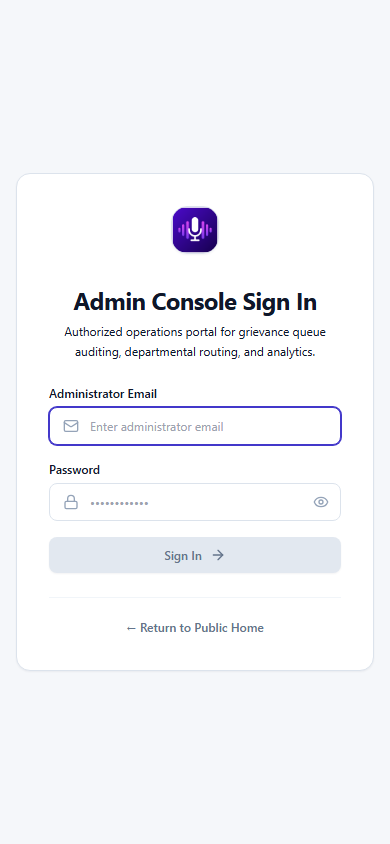
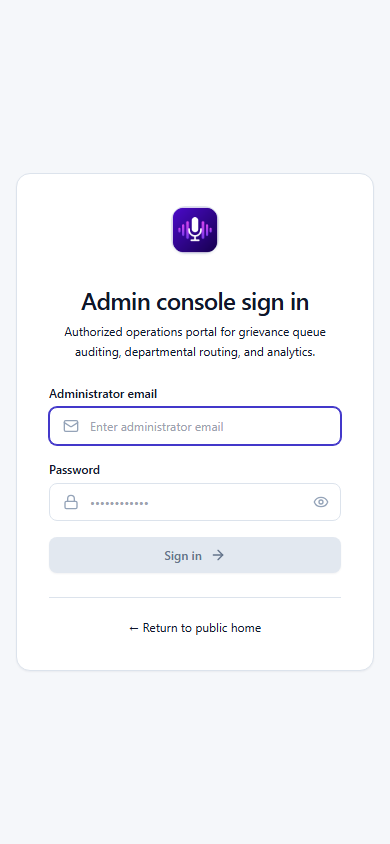
feat(unslop): refine admin portal sign-in card and complete full-suite audit

diff --git a/frontend/src/pages/AdminDashboard.jsx b/frontend/src/pages/AdminDashboard.jsx
@@ -149,9 +149,9 @@ export default function AdminDashboard() {
   // Loading state while verifying token
   if (isCheckingAuth) {
     return (
-      <div className="min-h-screen bg-slate-50 flex flex-col items-center justify-center p-4">
-        <Loader2 className="w-8 h-8 animate-spin text-primary-600 mb-3" />
-        <p className="text-xs font-semibold text-slate-500">Checking administrator authorization...</p>
+      <div className="min-h-screen bg-app flex flex-col items-center justify-center p-4">
+        <Loader2 className="w-8 h-8 animate-spin text-brand mb-3" />
+        <p className="text-xs text-secondary-text">Checking administrator authorization...</p>
       </div>
     );
   }
@@ -167,13 +167,13 @@ export default function AdminDashboard() {
             <img
               src="/voxdesk-app-icon-512.png"
               alt="VoxDesk AI Icon"
-              className="w-12 h-12 rounded-2xl mx-auto shadow-xs border border-border"
+              className="w-12 h-12 rounded-card mx-auto shadow-xs border border-border"
             />
           </Link>
 
           <div className="space-y-1.5">
-            <h1 className="text-2xl font-bold text-primary-text tracking-tight">
-              Admin Console Sign In
+            <h1 className="text-2xl font-medium text-primary-text tracking-tight">
+              Admin console sign in
             </h1>
             <p className="text-xs text-secondary-text leading-relaxed">
               Authorized operations portal for grievance queue auditing, departmental routing, and analytics.
@@ -185,9 +185,9 @@ export default function AdminDashboard() {
             <div>
               <label
                 htmlFor="admin-email"
-                className="block text-xs font-semibold text-secondary-text mb-1.5"
+                className="block text-xs font-medium text-secondary-text mb-1.5"
               >
-                Administrator Email
+                Administrator email
               </label>
               <div className="relative">
                 <Mail className="w-4 h-4 text-slate-400 absolute left-3.5 top-1/2 -translate-y-1/2" />
@@ -209,7 +209,7 @@ export default function AdminDashboard() {
             <div>
               <label
                 htmlFor="admin-password"
-                className="block text-xs font-semibold text-secondary-text mb-1.5"
+                className="block text-xs font-medium text-secondary-text mb-1.5"
               >
                 Password
               </label>
@@ -244,7 +244,7 @@ export default function AdminDashboard() {
             {authError && (
               <div
                 role="alert"
-                className="p-3 bg-rose-50 border border-rose-200 rounded-lg text-rose-700 text-xs font-medium flex items-center gap-2"
+                className="p-3 bg-rose-50 border border-rose-200 rounded-btn text-rose-700 text-xs font-medium flex items-center gap-2"
               >
                 <AlertCircle className="w-4 h-4 text-rose-600 shrink-0" />
                 <span>{authError}</span>
@@ -255,16 +255,16 @@ export default function AdminDashboard() {
             <button
               type="submit"
               disabled={isSubmittingLogin || !loginEmail.trim() || !loginPassword.trim()}
-              className="w-full py-2.5 px-4 bg-brand hover:bg-brand-hover disabled:bg-slate-200 disabled:text-slate-500 disabled:cursor-not-allowed text-white rounded-btn text-xs font-semibold shadow-xs transition flex items-center justify-center gap-2 focus:outline-none focus:ring-2 focus:ring-brand cursor-pointer"
+              className="w-full py-2.5 px-4 bg-brand hover:bg-brand-hover disabled:bg-slate-200 disabled:text-slate-500 disabled:cursor-not-allowed text-white rounded-btn text-xs font-medium shadow-xs transition flex items-center justify-center gap-2 focus:outline-none focus:ring-2 focus:ring-brand cursor-pointer"
             >
               {isSubmittingLogin ? (
                 <>
                   <Loader2 className="w-4 h-4 animate-spin" />
-                  <span>Verifying Authorization...</span>
+                  <span>Verifying authorization...</span>
                 </>
               ) : (
                 <>
-                  <span>Sign In</span>
+                  <span>Sign in</span>
                   <ArrowRight className="w-4 h-4" />
                 </>
               )}
@@ -272,12 +272,12 @@ export default function AdminDashboard() {
           </form>
 
           {/* Navigation to Public Home */}
-          <div className="mt-6 pt-4 border-t border-slate-100">
+          <div className="mt-6 pt-4 border-t border-border">
             <Link
               to="/"
-              className="text-xs text-slate-500 hover:text-slate-800 font-semibold inline-flex items-center gap-1.5"
+              className="text-xs text-secondary-text hover:text-primary-text font-normal inline-flex items-center gap-1.5"
             >
-              ← Return to Public Home
+              ← Return to public home
             </Link>
           </div>
         </div>
